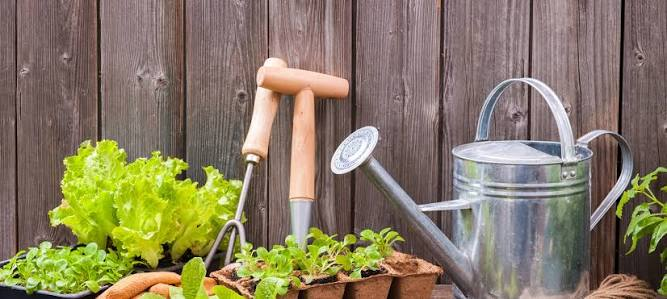
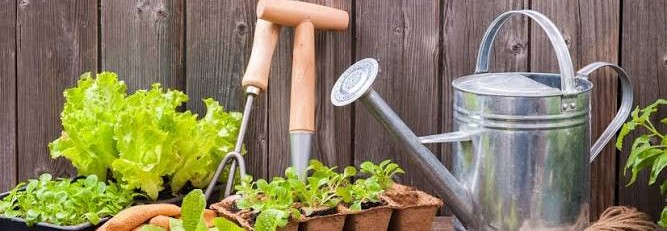
we learn today header and section and making navabr menus

diff --git a/about.html b/about.html
@@ -28,10 +28,10 @@
     <div class="collapse navbar-collapse" id="navbarSupportedContent">
       <ul class="navbar-nav me-auto mb-2 mb-lg-0">
         <li class="nav-item">
-          <a class="nav-link active bg-primary border border-warning" aria-current="page" href="index.html">Home</a>
+          <a class="nav-link " aria-current="page" href="index.html">Home</a>
         </li>
         <li class="nav-item">
-          <a class="nav-link" href="about.html">AboutUS</a>
+          <a class="nav-link active bg-primary border border-warning" href="about.html">AboutUS</a>
         </li>
         <li class="nav-item dropdown">
           <a class="nav-link dropdown-toggle" href="#" role="button" data-bs-toggle="dropdown" aria-expanded="false">
@@ -67,48 +67,7 @@
     <!-- Header End -->
      <!-- Main Start -->
      <main>
-        <!-- Slider Section Start -->
-        <section>
-          <div id="carouselExampleCaptions" class="carousel slide" >
-  <div class="carousel-indicators">
-    <button type="button" data-bs-target="#carouselExampleCaptions" data-bs-slide-to="0" class="active" aria-current="true" aria-label="Slide 1"></button>
-    <button type="button" data-bs-target="#carouselExampleCaptions" data-bs-slide-to="1" aria-label="Slide 2"></button>
-    <button type="button" data-bs-target="#carouselExampleCaptions" data-bs-slide-to="2" aria-label="Slide 3"></button>
-  </div>
-  <div class="carousel-inner">
-    <div class="carousel-item ">
-      <img src="images/plant baner6.jpg" class="d-block w-100" alt="slider1">
-      <div class="carousel-caption d-none d-md-block">
-        <h5 class="text-white">Decoration</h5>
-        <p class="text-white">A beautiful collection of indoor plants arranged for natural home decoration. 🌿🪴</p>
-      </div>
-    </div>
-    <div class="carousel-item active">
-      <img src="images/plant baner1.jpg" class="d-block w-100" alt="slider2">
-      <div class="carousel-caption d-none d-md-block">
-        <h5 class="text-white">planting and gardening care</h5>
-        <p class="text-white">Planting and caring for flowering plants to create a healthy and beautiful garden..</p>
-      </div>
-    </div>
-    <div class="carousel-item">
-      <img src="images/plant baner5.jpg" class="d-block w-100" alt="slider3">
-      <div class="carousel-caption d-none d-md-block">
-        <h5 class="text-white">Nursery 🌿</h5>
-        <p class="text-white">A beautiful collection of healthy green and flowering plants growing in a vibrant nursery.” 🌿</p>
-      </div>
-    </div>
-  </div>
-  <button class="carousel-control-prev" type="button" data-bs-target="#carouselExampleCaptions" data-bs-slide="prev">
-    <span class="carousel-control-prev-icon" aria-hidden="true"></span>
-    <span class="visually-hidden">Previous</span>
-  </button>
-  <button class="carousel-control-next" type="button" data-bs-target="#carouselExampleCaptions" data-bs-slide="next">
-    <span class="carousel-control-next-icon" aria-hidden="true"></span>
-    <span class="visually-hidden">Next</span>
-  </button>
-</div>
-        </section>
-        <!-- Slider Section End -->
+        This IS AboutUS Page
      </main>
      <!-- Main End -->
      <script src="https://cdn.jsdelivr.net/npm/bootstrap@5.3.8/dist/js/bootstrap.bundle.min.js" integrity="sha384-FKyoEForCGlyvwx9Hj09JcYn3nv7wiPVlz7YYwJrWVcXK/BmnVDxM+D2scQbITxI" crossorigin="anonymous"></script>

diff --git a/flowering.html b/flowering.html
@@ -1,0 +1,13 @@
+<!DOCTYPE html>
+<html lang="en">
+<head>
+    <meta charset="UTF-8">
+    <meta name="viewport" content="width=device-width, initial-scale=1.0">
+    <title>Document</title>
+    <link href="https://cdn.jsdelivr.net/npm/bootstrap@5.3.8/dist/css/bootstrap.min.css" rel="stylesheet" integrity="sha384-sRIl4kxILFvY47J16cr9ZwB07vP4J8+LH7qKQnuqkuIAvNWLzeN8tE5YBujZqJLB" crossorigin="anonymous">
+</head>
+<body>
+    <h2>Welcome To Flowering Plants</h2>
+    <script src="https://cdn.jsdelivr.net/npm/bootstrap@5.3.8/dist/js/bootstrap.bundle.min.js" integrity="sha384-FKyoEForCGlyvwx9Hj09JcYn3nv7wiPVlz7YYwJrWVcXK/BmnVDxM+D2scQbITxI" crossorigin="anonymous"></script>
+</body>
+</html>

diff --git a/indoor.html b/indoor.html
@@ -1,0 +1,13 @@
+<!DOCTYPE html>
+<html lang="en">
+<head>
+    <meta charset="UTF-8">
+    <meta name="viewport" content="width=device-width, initial-scale=1.0">
+    <title>Document</title>
+    <link href="https://cdn.jsdelivr.net/npm/bootstrap@5.3.8/dist/css/bootstrap.min.css" rel="stylesheet" integrity="sha384-sRIl4kxILFvY47J16cr9ZwB07vP4J8+LH7qKQnuqkuIAvNWLzeN8tE5YBujZqJLB" crossorigin="anonymous">
+</head>
+<body>
+    <h2>Welcome To Indoor Plants</h2>
+       <script src="https://cdn.jsdelivr.net/npm/bootstrap@5.3.8/dist/js/bootstrap.bundle.min.js" integrity="sha384-FKyoEForCGlyvwx9Hj09JcYn3nv7wiPVlz7YYwJrWVcXK/BmnVDxM+D2scQbITxI" crossorigin="anonymous"></script>
+</body>
+</html>

diff --git a/outdoor.html b/outdoor.html
@@ -1,0 +1,13 @@
+<!DOCTYPE html>
+<html lang="en">
+<head>
+    <meta charset="UTF-8">
+    <meta name="viewport" content="width=device-width, initial-scale=1.0">
+    <title>Document</title>
+     <link href="https://cdn.jsdelivr.net/npm/bootstrap@5.3.8/dist/css/bootstrap.min.css" rel="stylesheet" integrity="sha384-sRIl4kxILFvY47J16cr9ZwB07vP4J8+LH7qKQnuqkuIAvNWLzeN8tE5YBujZqJLB" crossorigin="anonymous">
+</head>
+<body>
+    <h2>Welcome To Outdoor Plants</h2>
+    <script src="https://cdn.jsdelivr.net/npm/bootstrap@5.3.8/dist/js/bootstrap.bundle.min.js" integrity="sha384-FKyoEForCGlyvwx9Hj09JcYn3nv7wiPVlz7YYwJrWVcXK/BmnVDxM+D2scQbITxI" crossorigin="anonymous"></script>
+</body>
+</html>

diff --git a/products.html b/products.html
@@ -1,0 +1,13 @@
+<!DOCTYPE html>
+<html lang="en">
+<head>
+    <meta charset="UTF-8">
+    <meta name="viewport" content="width=device-width, initial-scale=1.0">
+    <title>Document</title>
+     <link href="https://cdn.jsdelivr.net/npm/bootstrap@5.3.8/dist/css/bootstrap.min.css" rel="stylesheet" integrity="sha384-sRIl4kxILFvY47J16cr9ZwB07vP4J8+LH7qKQnuqkuIAvNWLzeN8tE5YBujZqJLB" crossorigin="anonymous">
+</head>
+<body>
+    <h2>Welcome To Products🌱</h2>
+    <script src="https://cdn.jsdelivr.net/npm/bootstrap@5.3.8/dist/js/bootstrap.bundle.min.js" integrity="sha384-FKyoEForCGlyvwx9Hj09JcYn3nv7wiPVlz7YYwJrWVcXK/BmnVDxM+D2scQbITxI" crossorigin="anonymous"></script>
+</body>
+</html>

diff --git a/plant_care.html b/plant_care.html
@@ -1,0 +1,13 @@
+<!DOCTYPE html>
+<html lang="en">
+<head>
+    <meta charset="UTF-8">
+    <meta name="viewport" content="width=device-width, initial-scale=1.0">
+    <title>Document</title>
+     <link href="https://cdn.jsdelivr.net/npm/bootstrap@5.3.8/dist/css/bootstrap.min.css" rel="stylesheet" integrity="sha384-sRIl4kxILFvY47J16cr9ZwB07vP4J8+LH7qKQnuqkuIAvNWLzeN8tE5YBujZqJLB" crossorigin="anonymous">
+</head>
+<body>
+    <h2>Welcome To PlantCare</h2>
+    <script src="https://cdn.jsdelivr.net/npm/bootstrap@5.3.8/dist/js/bootstrap.bundle.min.js" integrity="sha384-FKyoEForCGlyvwx9Hj09JcYn3nv7wiPVlz7YYwJrWVcXK/BmnVDxM+D2scQbITxI" crossorigin="anonymous"></script>
+</body>
+</html>

diff --git a/services.html b/services.html
@@ -1,0 +1,13 @@
+<!DOCTYPE html>
+<html lang="en">
+<head>
+    <meta charset="UTF-8">
+    <meta name="viewport" content="width=device-width, initial-scale=1.0">
+    <title>Document</title>
+     <link href="https://cdn.jsdelivr.net/npm/bootstrap@5.3.8/dist/css/bootstrap.min.css" rel="stylesheet" integrity="sha384-sRIl4kxILFvY47J16cr9ZwB07vP4J8+LH7qKQnuqkuIAvNWLzeN8tE5YBujZqJLB" crossorigin="anonymous">
+</head>
+<body>
+    <h2>Welcome To Services</h2>
+     <script src="https://cdn.jsdelivr.net/npm/bootstrap@5.3.8/dist/js/bootstrap.bundle.min.js" integrity="sha384-FKyoEForCGlyvwx9Hj09JcYn3nv7wiPVlz7YYwJrWVcXK/BmnVDxM+D2scQbITxI" crossorigin="anonymous"></script>
+</body>
+</html>

diff --git a/contact.html b/contact.html
@@ -1,0 +1,13 @@
+<!DOCTYPE html>
+<html lang="en">
+<head>
+    <meta charset="UTF-8">
+    <meta name="viewport" content="width=device-width, initial-scale=1.0">
+    <title>Document</title>
+   <link href="https://cdn.jsdelivr.net/npm/bootstrap@5.3.8/dist/css/bootstrap.min.css" rel="stylesheet" integrity="sha384-sRIl4kxILFvY47J16cr9ZwB07vP4J8+LH7qKQnuqkuIAvNWLzeN8tE5YBujZqJLB" crossorigin="anonymous">
+</head>
+<body>
+    <h2>Welcome To ContactUs</h2>
+     <script src="https://cdn.jsdelivr.net/npm/bootstrap@5.3.8/dist/js/bootstrap.bundle.min.js" integrity="sha384-FKyoEForCGlyvwx9Hj09JcYn3nv7wiPVlz7YYwJrWVcXK/BmnVDxM+D2scQbITxI" crossorigin="anonymous"></script>
+</body>
+</html>
